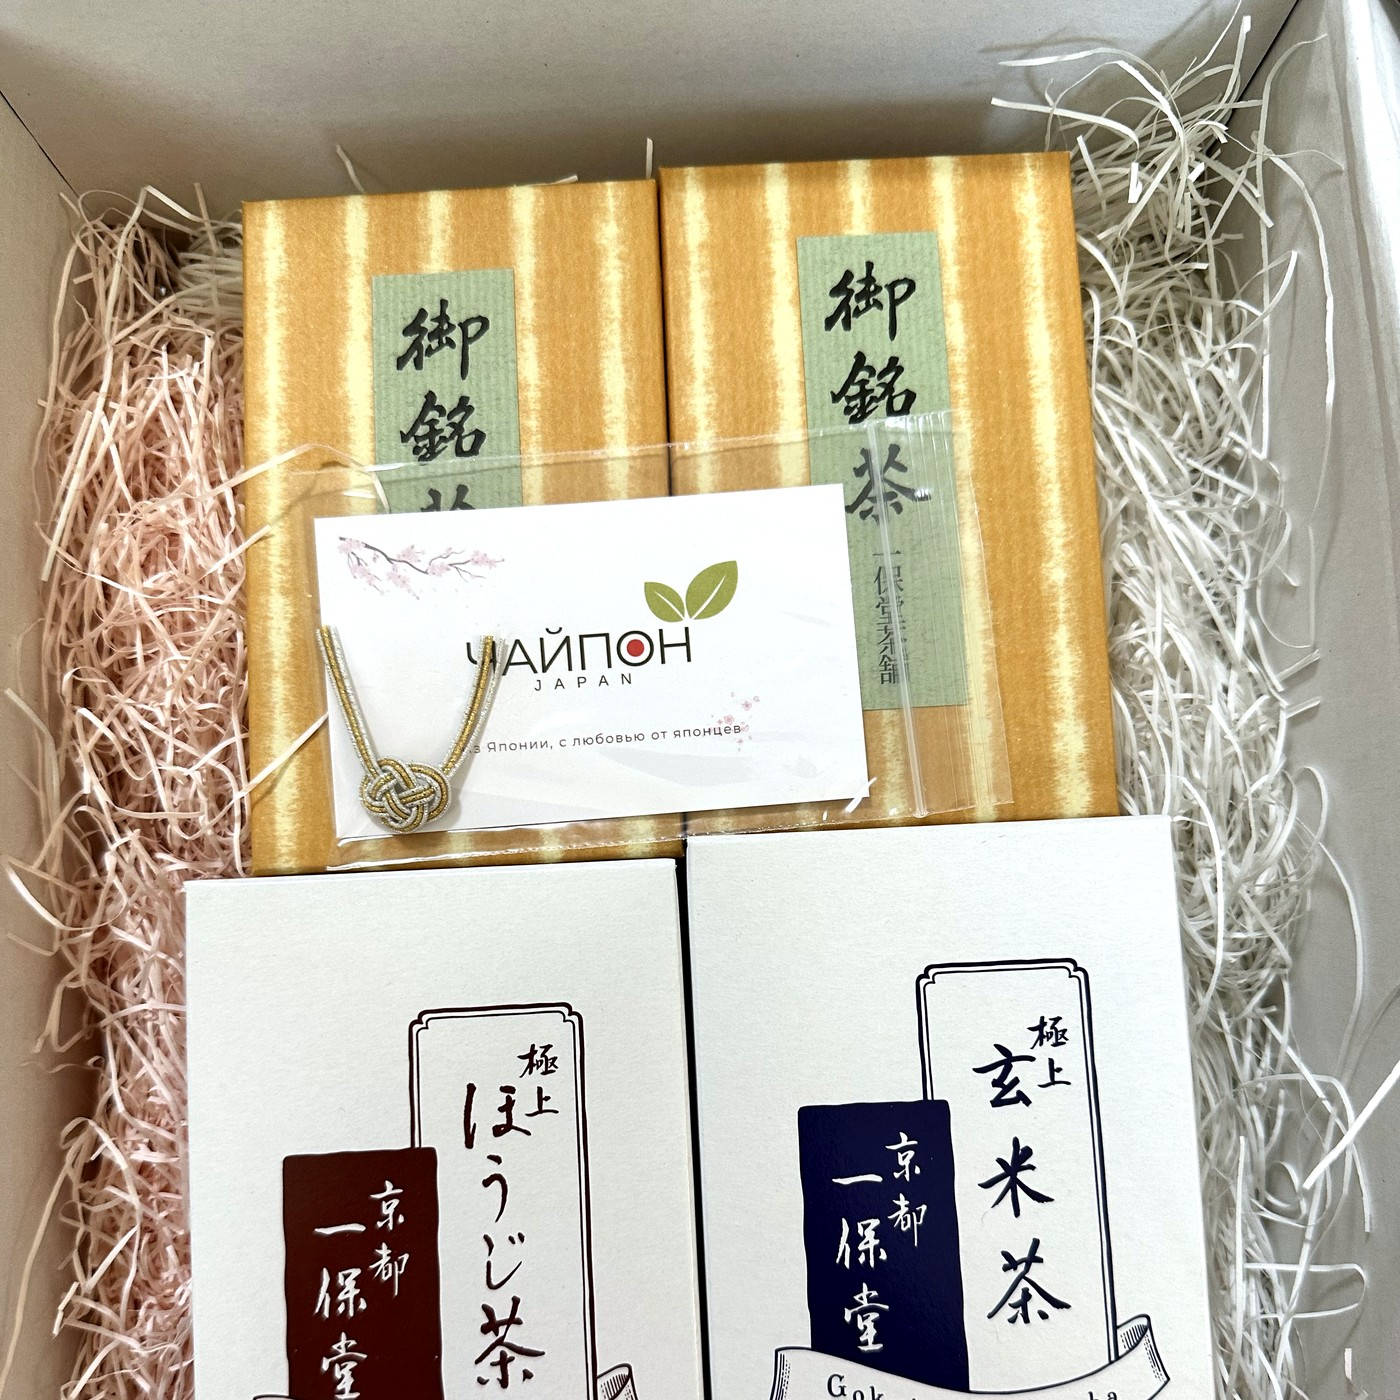
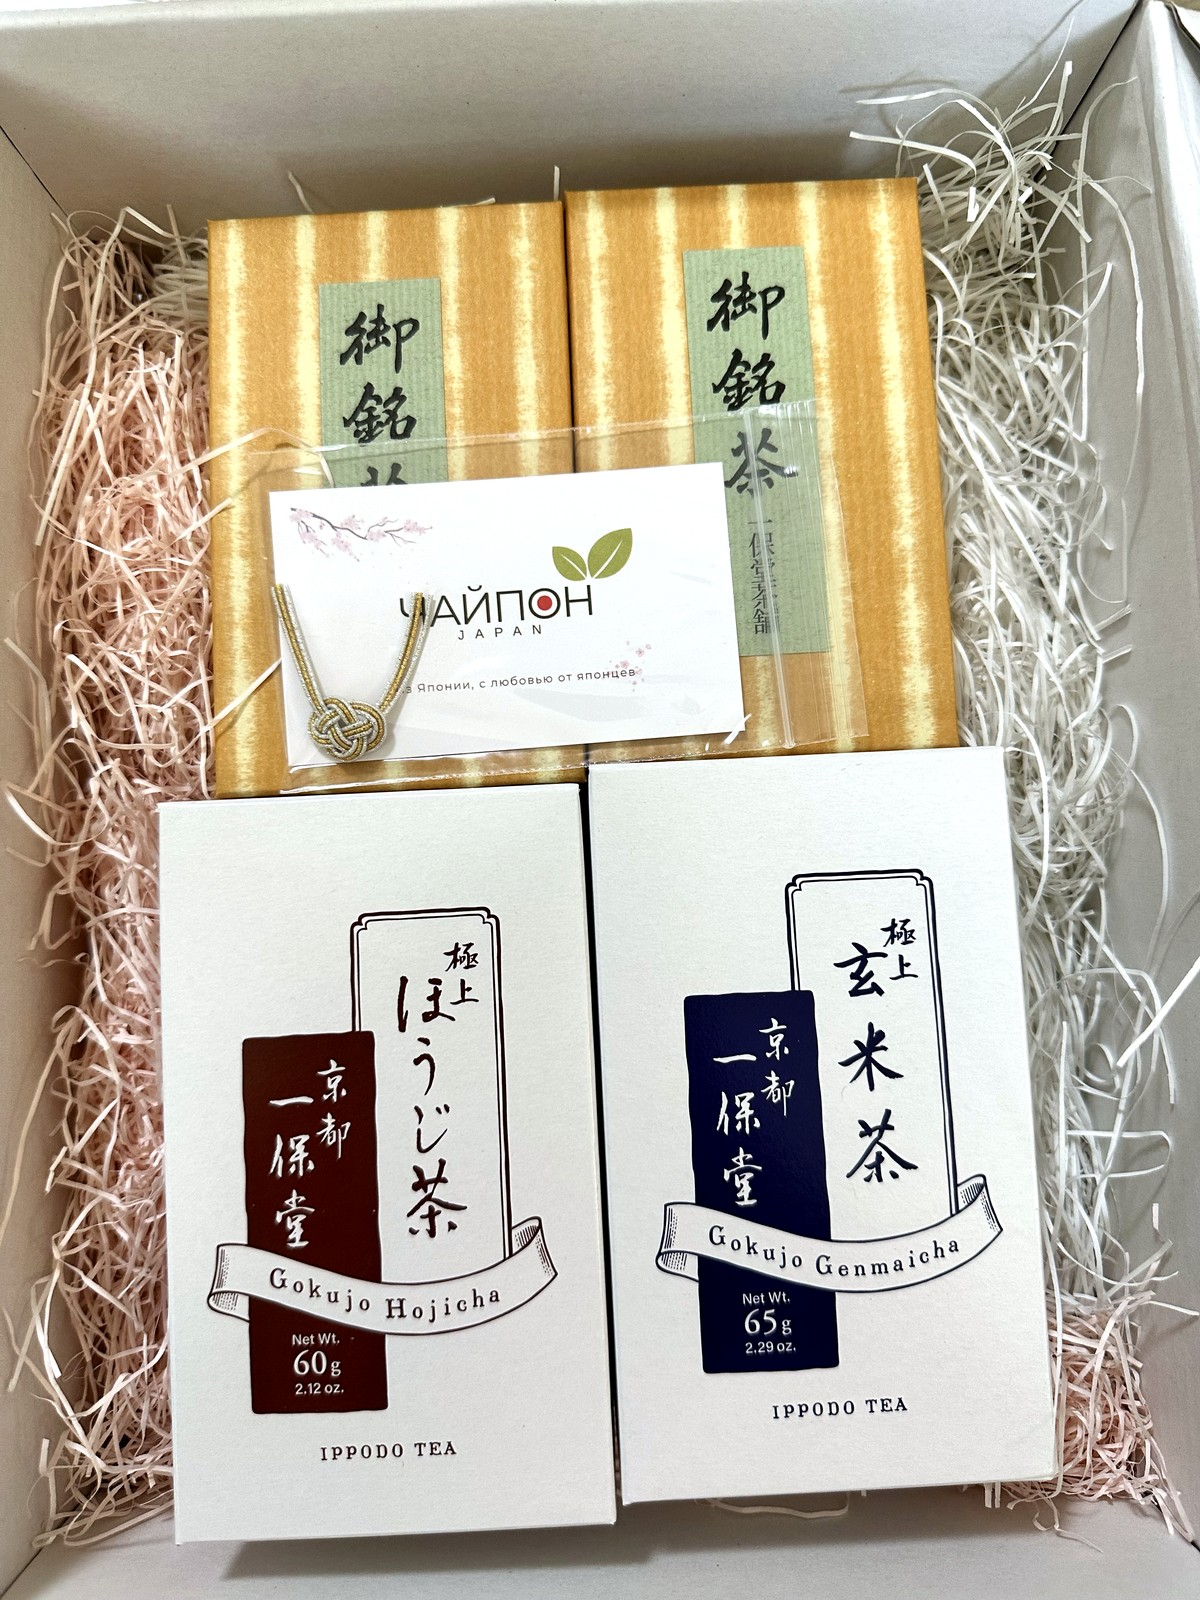
Fix gift photo cropping and switch to left-image/right-text layout
Previous square crop cut off the bottom of the gift box photo.
Now shows the full uncropped photo, laid out beside the heading
and description instead of as a large full-width image.

diff --git a/public/index.html b/public/index.html
@@ -250,17 +250,17 @@
   </section>
 
   <section id="gift" class="gift">
-    <div class="container">
-      <h2 class="section-title">
-        <span class="lang-ru">Подарочная упаковка</span>
-        <span class="lang-uz">Sovg'a qadoqlash</span>
-      </h2>
-      <p class="gift-note">
-        <span class="lang-ru">Любой заказ — будь то один чай или набор — мы красиво упаковываем: с бумажным наполнителем и открыткой от ЧАЙПОН. Отлично подходит, если чай станет подарком.</span>
-        <span class="lang-uz">Har qanday buyurtmani — bitta choy bo'lsinmi yoki to'plam — chiroyli qadoqlaymiz: qog'oz to'ldirgich va CHAIPON otkritkasi bilan. Choy sovg'a bo'lsa, bu juda mos keladi.</span>
-      </p>
-      <div class="gift-grid">
-        <img src="images/giftbox-2.jpg" alt="Подарочная упаковка ЧАЙПОН" class="gift-img">
+    <div class="container gift-inner">
+      <img src="images/giftbox-2.jpg" alt="Подарочная упаковка ЧАЙПОН" class="gift-img">
+      <div class="gift-text">
+        <h2 class="section-title">
+          <span class="lang-ru">Подарочная упаковка</span>
+          <span class="lang-uz">Sovg'a qadoqlash</span>
+        </h2>
+        <p class="gift-note">
+          <span class="lang-ru">Любой заказ — будь то один чай или набор — мы красиво упаковываем: с бумажным наполнителем и открыткой от ЧАЙПОН. Отлично подходит, если чай станет подарком.</span>
+          <span class="lang-uz">Har qanday buyurtmani — bitta choy bo'lsinmi yoki to'plam — chiroyli qadoqlaymiz: qog'oz to'ldirgich va CHAIPON otkritkasi bilan. Choy sovg'a bo'lsa, bu juda mos keladi.</span>
+        </p>
       </div>
     </div>
   </section>

diff --git a/public/css/style.css b/public/css/style.css
@@ -335,27 +335,30 @@ body.is-uz p.lang-uz { display: block; }
 .product-body .btn { margin-top: 6px; text-align: center; }
 
 /* Gift */
-.gift { padding: 80px 0 60px; }
+.gift { padding: 80px 0; }
 
-.gift-note {
-  max-width: 680px;
-  margin: 0 auto 40px;
-  text-align: center;
-  font-size: 16px;
-  color: var(--text);
-}
-
-.gift-grid {
-  max-width: 520px;
-  margin: 0 auto;
+.gift-inner {
+  display: flex;
+  align-items: center;
+  gap: 48px;
 }
 
 .gift-img {
-  width: 100%;
-  aspect-ratio: 1 / 1;
-  object-fit: cover;
+  width: 42%;
+  max-width: 380px;
+  height: auto;
+  flex-shrink: 0;
   border-radius: var(--radius);
   box-shadow: var(--shadow);
+}
+
+.gift-text { flex: 1; min-width: 260px; }
+.gift-text .section-title { text-align: left; }
+
+.gift-note {
+  font-size: 16px;
+  color: var(--text);
+  margin: 0;
 }
 
 /* Tea info */
@@ -473,4 +476,7 @@ body.is-uz p.lang-uz { display: block; }
   .site-nav { order: 3; width: 100%; justify-content: center; gap: 16px; flex-wrap: wrap; }
   .hero-logo { height: 140px; }
   .hero-tagline { font-size: 17px; }
+  .gift-inner { flex-direction: column; text-align: center; }
+  .gift-img { width: 100%; max-width: 380px; }
+  .gift-text .section-title { text-align: center; }
 }
